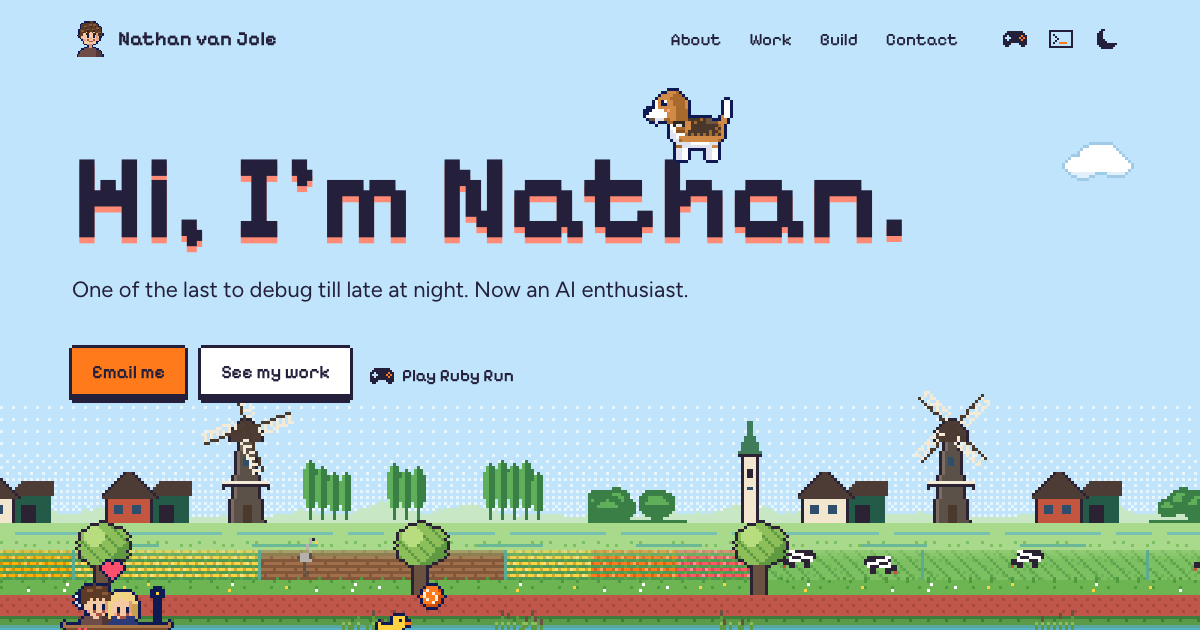
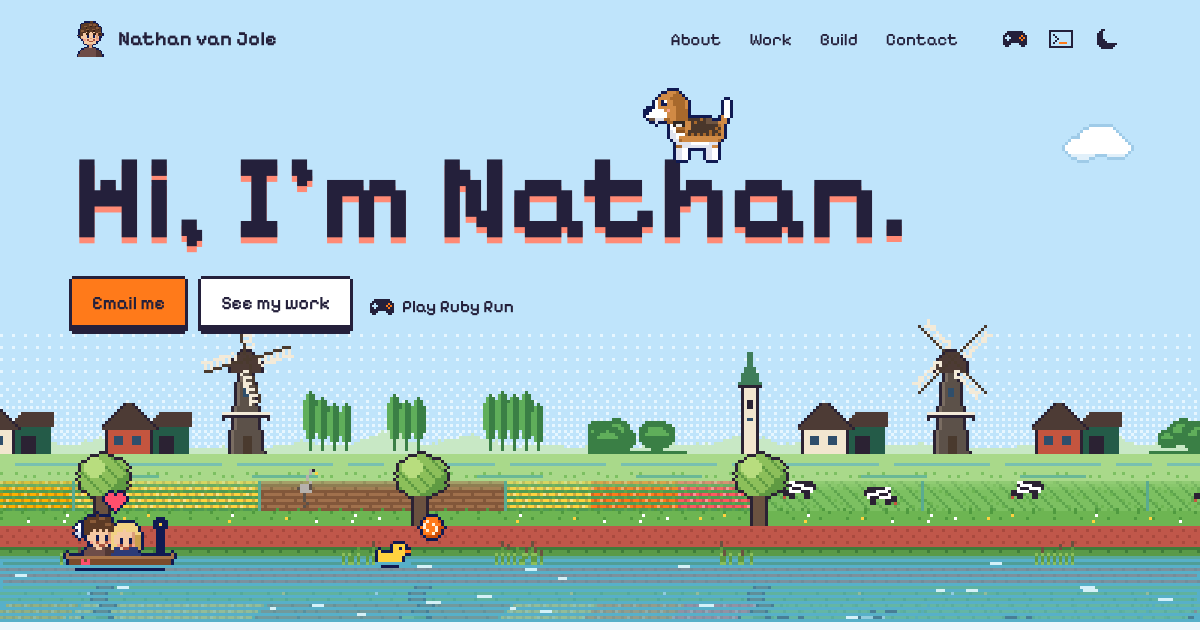
Hero: no line under the greeting for now
hero.lede is empty, so only the greeting and the buttons show. Fill it in
again to bring a line back. The link preview follows.

diff --git a/src/content/home.ts b/src/content/home.ts
@@ -9,7 +9,8 @@ import type { Ability, Link, Rich, WorkEntry } from './types';
 // ------------------------------------------------------------------ hero
 export const hero = {
   title: "Hi, I'm Nathan.",
-  lede: 'One of the last to debug till late at night. Now an AI enthusiast.' as Rich,
+  /** the line under the greeting; leave it empty for none */
+  lede: '' as Rich,
   actions: [
     { label: 'Email me', href: 'mailto:hi@nathanvj.com' },
     { label: 'See my work', href: '#work' },
